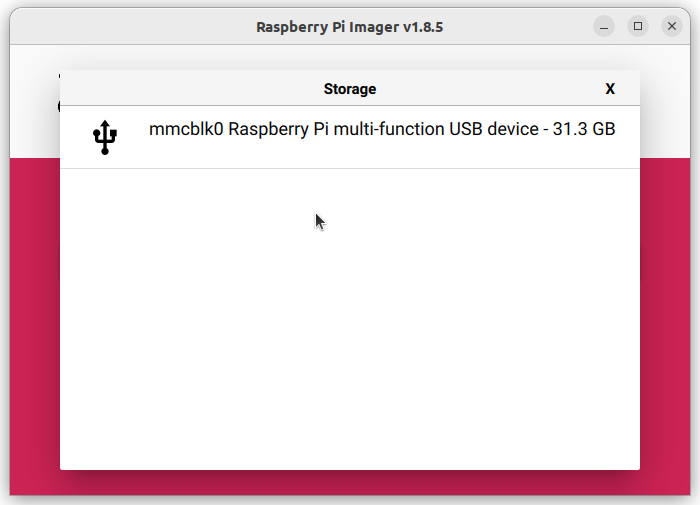
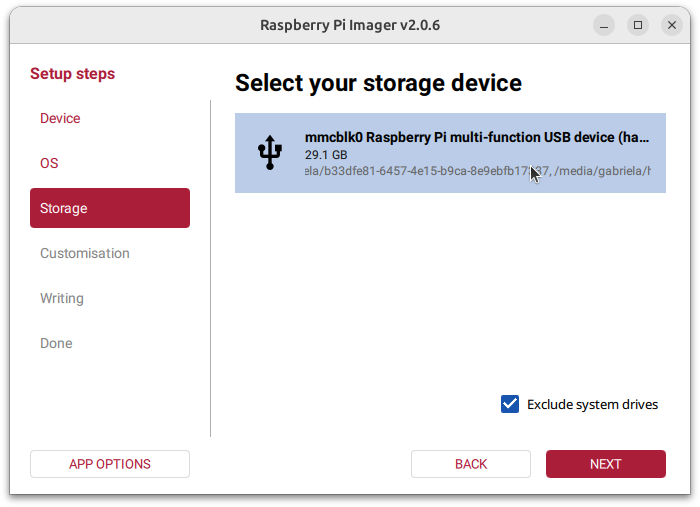
Yellow CM5 installation: update rpi screenshots (#847)
* Yellow CM5 installation: update screenshots

* Remove duplicate

* re-add-images for CM4

diff --git a/_includes/yellow/yellow-install-haos-cm5.md b/_includes/yellow/yellow-install-haos-cm5.md
@@ -12,23 +12,22 @@
 {% endstep %}
 
 {% step "Opening Raspberry Pi Imager" %}
-{% image "/static/img/yellow/yellow_rpi-imager_select_device_cm5.png" "Open Raspberry Pi Imager" %}
+{% image "/static/img/yellow/rpi_imager_start.png" "Open Raspberry Pi Imager" %}
 {% stepContent %}
 
-- Under **Raspberry Pi Device**, select **Raspberry Pi&nbsp;5**.
+- Under **Setup steps**, select **OS**.
 
 {% endstepContent %}
 {% endstep %}
 
 {% step "Choosing the operating system" %}
-{% image "/static/img/yellow/yellow_rpi-imager_cm5_module_image.webp" "Choosing the operating system" %}
+{% image "/static/img/yellow/installation-rpi-yellow.webp" "Choosing the operating system" %}
 {% stepContent %}
 
 Choose the operating system:
 
-- Select **Choose OS**.
 - Choose **Other specific-purpose OS**.
-- Choose **Home assistants and home automation**.
+- Choose **Home automation**.
 - Choose **Home Assistant**.
 - Choose **Home Assistant OS x.y (Yellow)**.
 
@@ -39,16 +38,17 @@ Choose the operating system:
 {% image "/static/img/yellow/rpi_choose_storage_cm5.png" "Choosing storage" %}
 {% stepContent %}
 
-- Select **Choose storage** and from the dropdown menu, select your Raspberry Pi module.
+- Under **Storage**, select your Raspberry Pi module.
+- Select **Next**.
 
 {% endstepContent %}
 {% endstep %}
 
 {% step "Writing the installer onto the drive" %}
-{% image "/static/img/yellow/rpi_choose_next.png" "Writing the installer onto the drive" %}
+{% image "/static/img/yellow/rpi_write_installer.png" "Writing the installer onto the drive" %}
 {% stepContent %}
 
-1. Select the **Next** button to start the process.
+1. Select **Write** to start the process.
 2. Wait for the Home Assistant OS Installer to be written to the internal eMMC storage on your module.
 3. Follow the wizard.
 4. When the steps are complete, close the rpi-installer.
